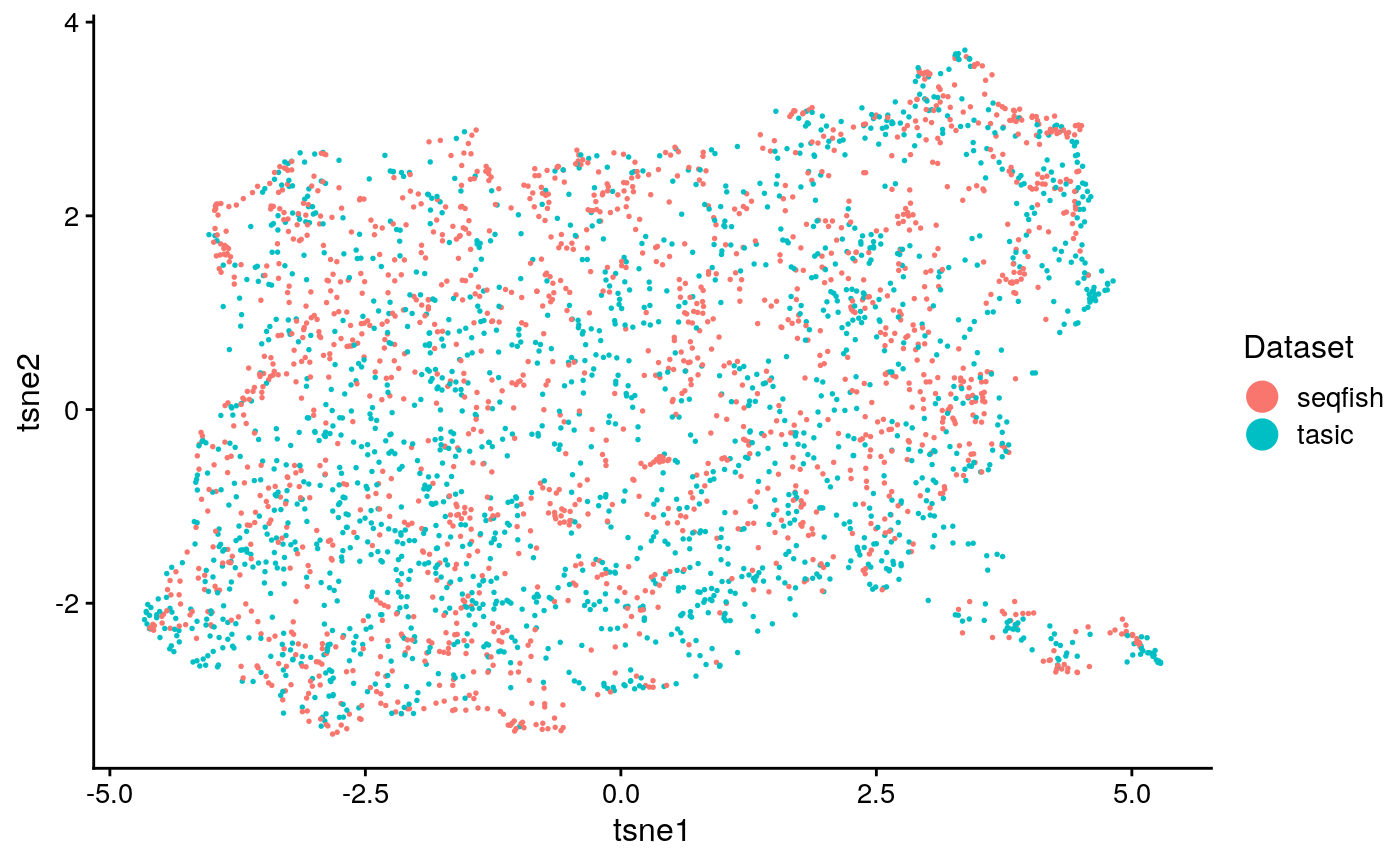
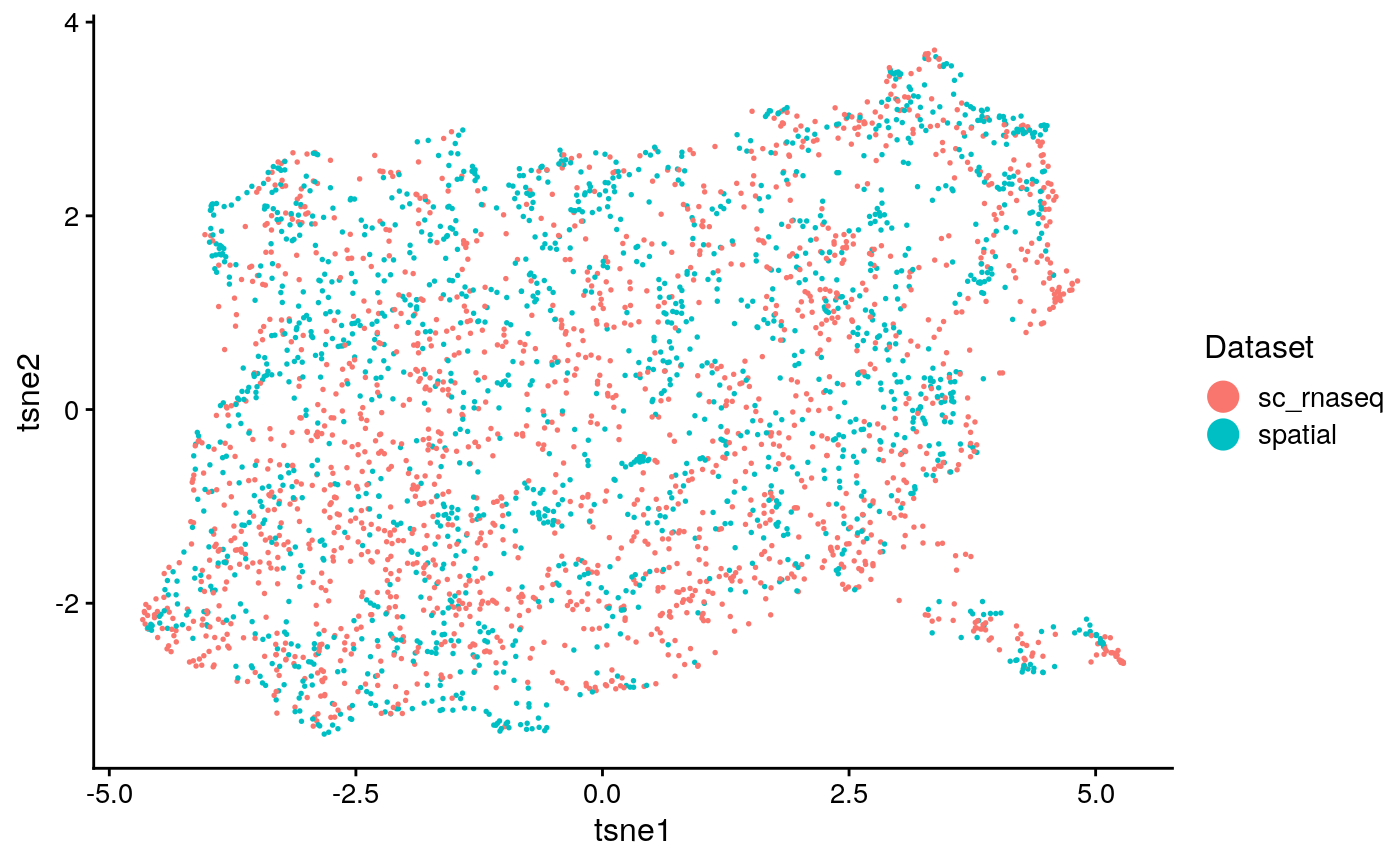
Deploying to gh-pages from  @ 3b7832808e62f6dd20e6f6bdc8f19b09e4638507 🚀

diff --git a/articles/birs_revised.html b/articles/birs_revised.html
@@ -177,7 +177,7 @@
 <p>To establish a baseline as the level of structure and clustering accuracy that can be found for each dataset with LIGER, we run individual analyses.</p>
 <p>The analysis includes 1. Normalization, to standardize the counts per sample 2. Variable gene selection 3. Scaling, but not centering as not to violate the nonnegativity constraint 4. Integrative non-negative matrix factorization, or essentially just NMF in the case shown here in which one dataset is provided 5. Quantile normalization, primarily used for aligning multiple datasets. 6. Cluster identification with the Louvain algorithm 7. UMAP, for visualization</p>
 <p>First, we run the analysis on the scRNA-seq data</p>
-<div class="sourceCode" id="cb9"><html><body><pre class="r"><span class="no">tasic_obj</span> <span class="kw">=</span> <span class="fu">createLiger</span>(<span class="fu"><a href="https://rdrr.io/r/base/list.html">list</a></span>(<span class="kw">tasic</span> <span class="kw">=</span> <span class="no">tasic</span>))
+<div class="sourceCode" id="cb9"><html><body><pre class="r"><span class="no">tasic_obj</span> <span class="kw">=</span> <span class="fu">createLiger</span>(<span class="fu"><a href="https://rdrr.io/r/base/list.html">list</a></span>(<span class="kw">sc_rnaseq</span> <span class="kw">=</span> <span class="no">tasic</span>))
 <span class="no">tasic_obj</span> <span class="kw">%&lt;&gt;%</span> <span class="kw pkg">liger</span><span class="kw ns">::</span><span class="fu"><a href="https://rdrr.io/pkg/liger/man/normalize.html">normalize</a></span>() <span class="kw">%&gt;%</span>
     <span class="kw pkg">liger</span><span class="kw ns">::</span><span class="fu"><a href="https://rdrr.io/pkg/liger/man/selectGenes.html">selectGenes</a></span>() <span class="kw">%&gt;%</span>
     <span class="kw pkg">liger</span><span class="kw ns">::</span><span class="fu"><a href="https://rdrr.io/pkg/liger/man/scaleNotCenter.html">scaleNotCenter</a></span>() <span class="kw">%&gt;%</span>
@@ -186,7 +186,7 @@
     <span class="kw pkg">liger</span><span class="kw ns">::</span><span class="fu"><a href="https://rdrr.io/pkg/liger/man/louvainCluster.html">louvainCluster</a></span>() <span class="kw">%&gt;%</span>
     <span class="kw pkg">liger</span><span class="kw ns">::</span><span class="fu"><a href="https://rdrr.io/pkg/liger/man/runUMAP.html">runUMAP</a></span>()</pre></body></html></div>
 <p>Then, we run it on the seqFISH data</p>
-<div class="sourceCode" id="cb10"><html><body><pre class="r"><span class="no">seq_obj</span> <span class="kw">=</span> <span class="fu">createLiger</span>(<span class="fu"><a href="https://rdrr.io/r/base/list.html">list</a></span>(<span class="kw">seqfish</span> <span class="kw">=</span> <span class="no">seqfish</span>))
+<div class="sourceCode" id="cb10"><html><body><pre class="r"><span class="no">seq_obj</span> <span class="kw">=</span> <span class="fu">createLiger</span>(<span class="fu"><a href="https://rdrr.io/r/base/list.html">list</a></span>(<span class="kw">spatial</span> <span class="kw">=</span> <span class="no">seqfish</span>))
 <span class="no">seq_obj</span> <span class="kw">%&lt;&gt;%</span> <span class="kw pkg">liger</span><span class="kw ns">::</span><span class="fu"><a href="https://rdrr.io/pkg/liger/man/normalize.html">normalize</a></span>() <span class="kw">%&gt;%</span>
     <span class="kw pkg">liger</span><span class="kw ns">::</span><span class="fu"><a href="https://rdrr.io/pkg/liger/man/selectGenes.html">selectGenes</a></span>() <span class="kw">%&gt;%</span>
     <span class="kw pkg">liger</span><span class="kw ns">::</span><span class="fu"><a href="https://rdrr.io/pkg/liger/man/scaleNotCenter.html">scaleNotCenter</a></span>() <span class="kw">%&gt;%</span>
@@ -220,7 +220,7 @@
 <pre><code>## [1] "seqfish purity: 0.546023794614903"</code></pre>
 <p>This confirms that the single cell data had somewhat better clustering accuracy.</p>
 <p>Now, let’s try to integrate the datasets, using almost the same workflow as before but with both datasets provided for object creation.</p>
-<div class="sourceCode" id="cb23"><html><body><pre class="r"><span class="no">int_obj</span> <span class="kw">=</span> <span class="fu">createLiger</span>(<span class="fu"><a href="https://rdrr.io/r/base/list.html">list</a></span>(<span class="kw">tasic</span> <span class="kw">=</span> <span class="no">tasic</span>, <span class="kw">seqfish</span> <span class="kw">=</span> <span class="no">seqfish</span>))
+<div class="sourceCode" id="cb23"><html><body><pre class="r"><span class="no">int_obj</span> <span class="kw">=</span> <span class="fu">createLiger</span>(<span class="fu"><a href="https://rdrr.io/r/base/list.html">list</a></span>(<span class="kw">sc_rnaseq</span> <span class="kw">=</span> <span class="no">tasic</span>, <span class="kw">spatial</span> <span class="kw">=</span> <span class="no">seqfish</span>))
 <span class="no">int_obj</span> <span class="kw">%&lt;&gt;%</span> <span class="kw pkg">liger</span><span class="kw ns">::</span><span class="fu"><a href="https://rdrr.io/pkg/liger/man/normalize.html">normalize</a></span>() <span class="kw">%&gt;%</span>
     <span class="kw pkg">liger</span><span class="kw ns">::</span><span class="fu"><a href="https://rdrr.io/pkg/liger/man/selectGenes.html">selectGenes</a></span>() <span class="kw">%&gt;%</span>
     <span class="kw pkg">liger</span><span class="kw ns">::</span><span class="fu"><a href="https://rdrr.io/pkg/liger/man/scaleNotCenter.html">scaleNotCenter</a></span>() <span class="kw">%&gt;%</span>
@@ -247,9 +247,9 @@
 <div class="sourceCode" id="cb31"><html><body><pre class="r"><span class="fu"><a href="https://rdrr.io/r/base/print.html">print</a></span>(<span class="fu"><a href="https://rdrr.io/r/base/paste.html">paste</a></span>(<span class="st">"agreement:"</span>,<span class="fu">calcAgreement</span>(<span class="no">int_obj</span>)))</pre></body></html></div>
 <pre><code>## [1] "Reducing dimensionality using NMF"
 ## 
-## Converged in 0.01548982 seconds, 167 iterations. Objective: 5408.016 
+## Converged in 0.01860118 seconds, 167 iterations. Objective: 5408.016 
 ## 
-## Converged in 0.01904821 seconds, 188 iterations. Objective: 8577.805 
+## Converged in 0.01765323 seconds, 188 iterations. Objective: 8577.805 
 ## [1] "agreement: 0.089592886480605"</code></pre>
 <div class="sourceCode" id="cb33"><html><body><pre class="r"><span class="fu"><a href="https://rdrr.io/r/base/print.html">print</a></span>(<span class="fu"><a href="https://rdrr.io/r/base/paste.html">paste</a></span>(<span class="st">"alignment:"</span>,<span class="fu">calcAlignment</span>(<span class="no">int_obj</span>)))</pre></body></html></div>
 <pre><code>## [1] "alignment: 0.804064439004953"</code></pre>
